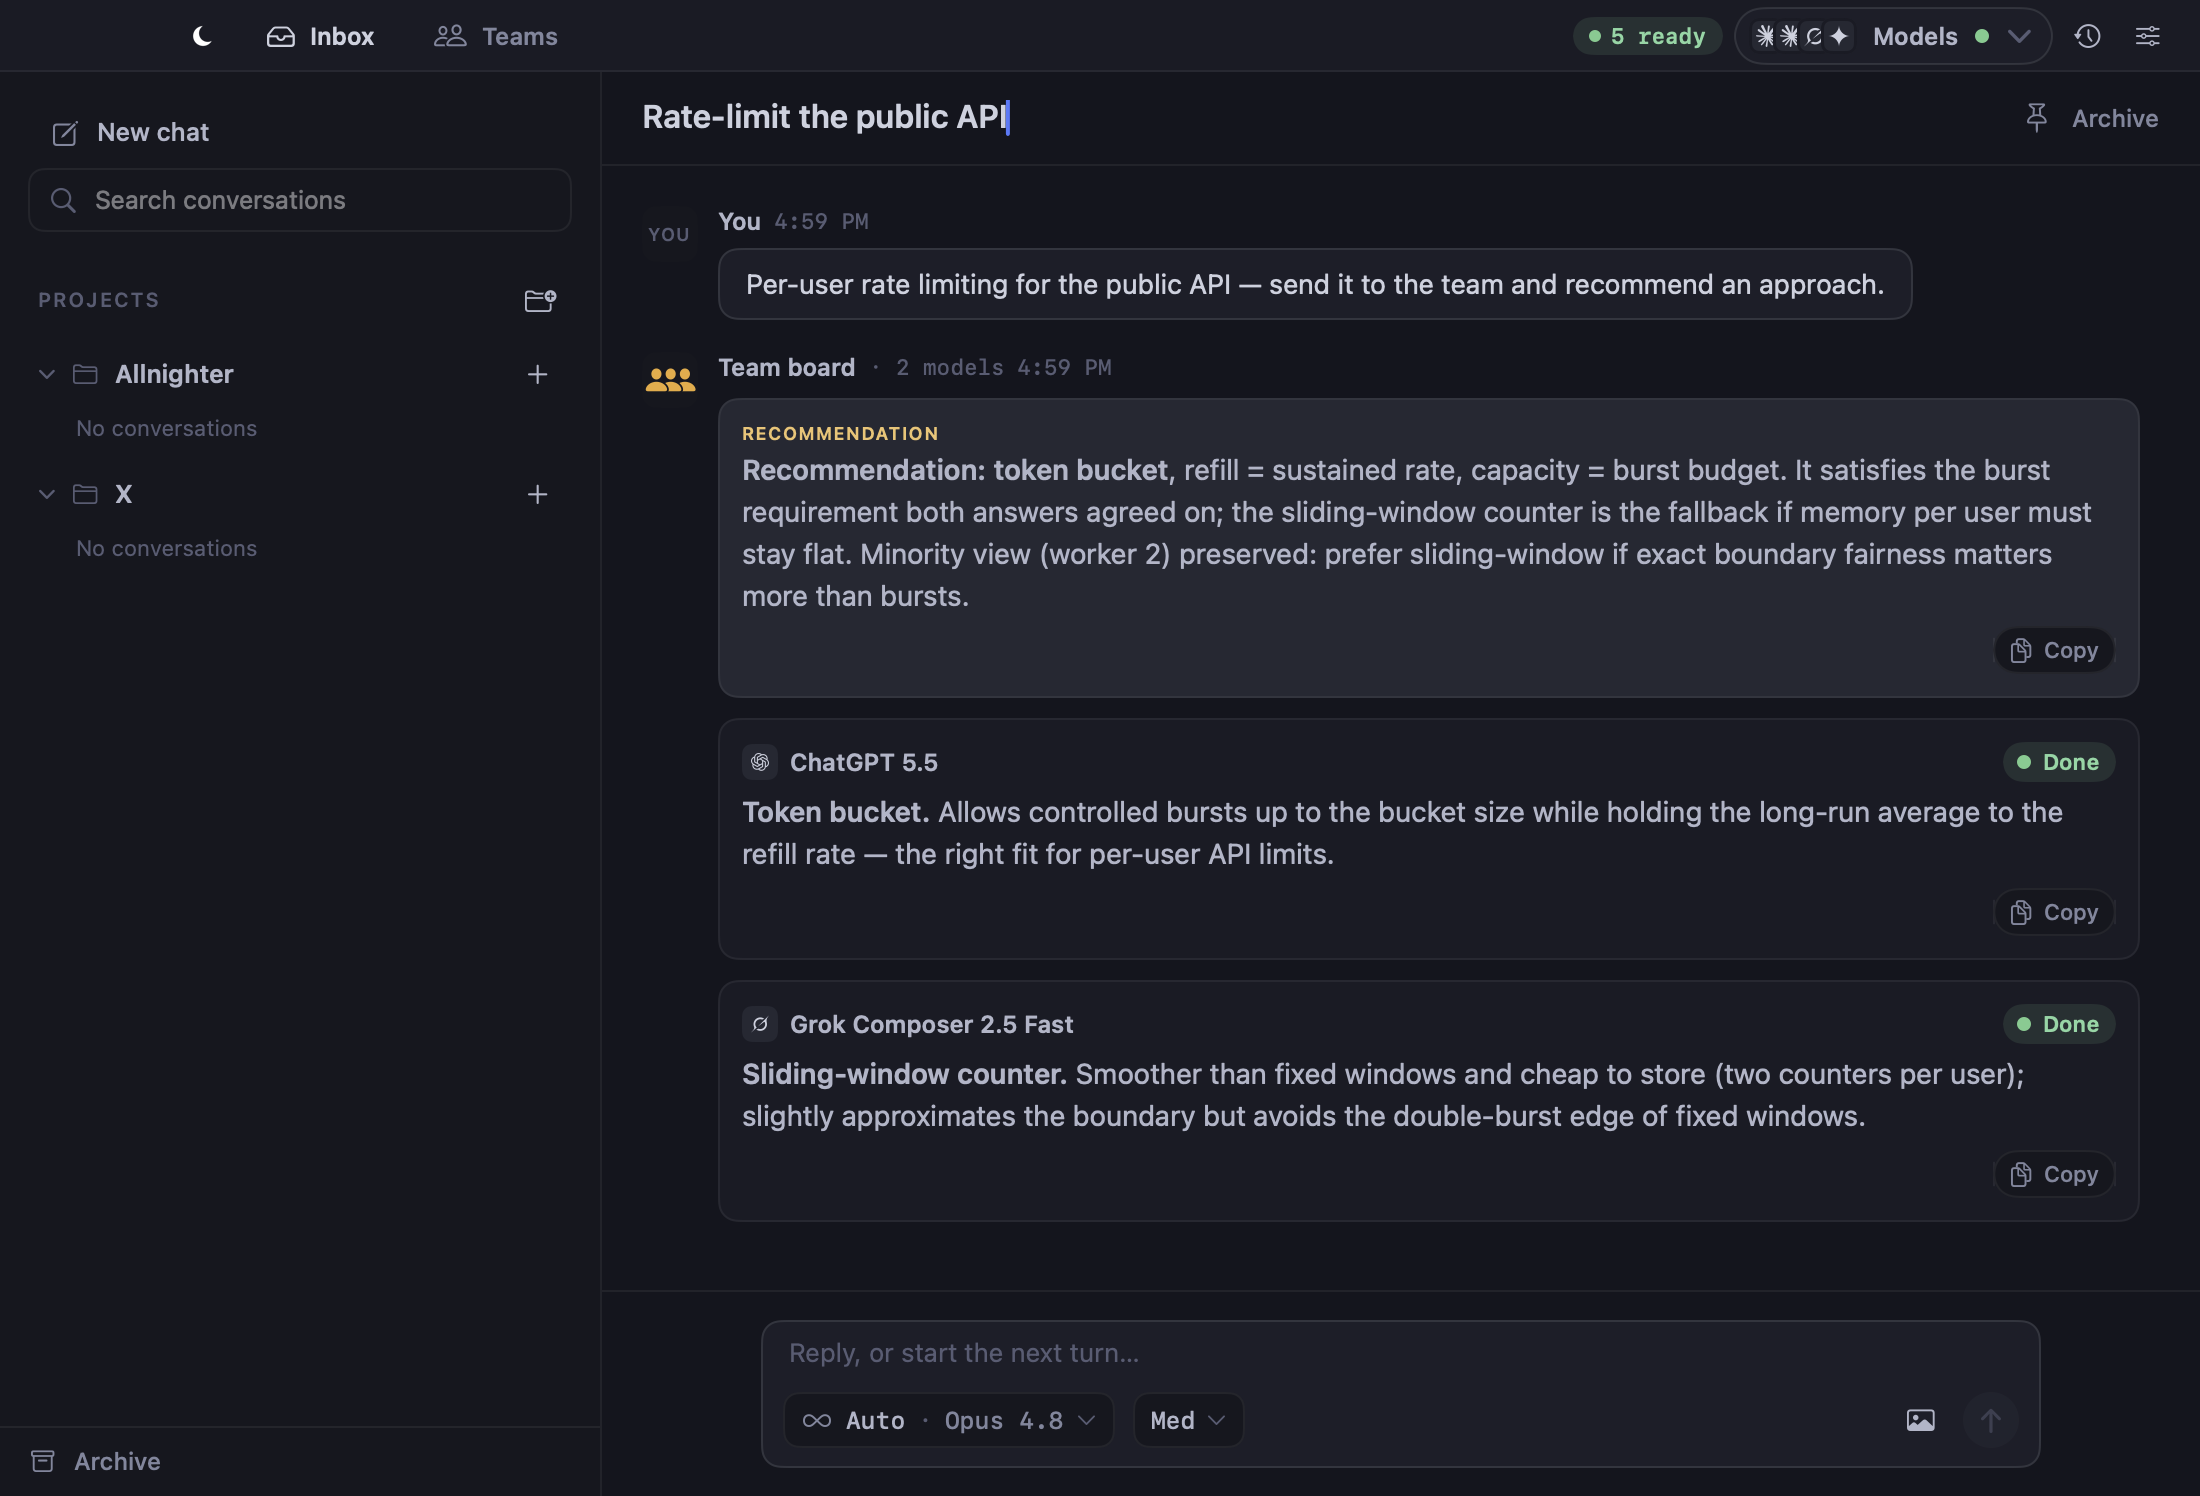
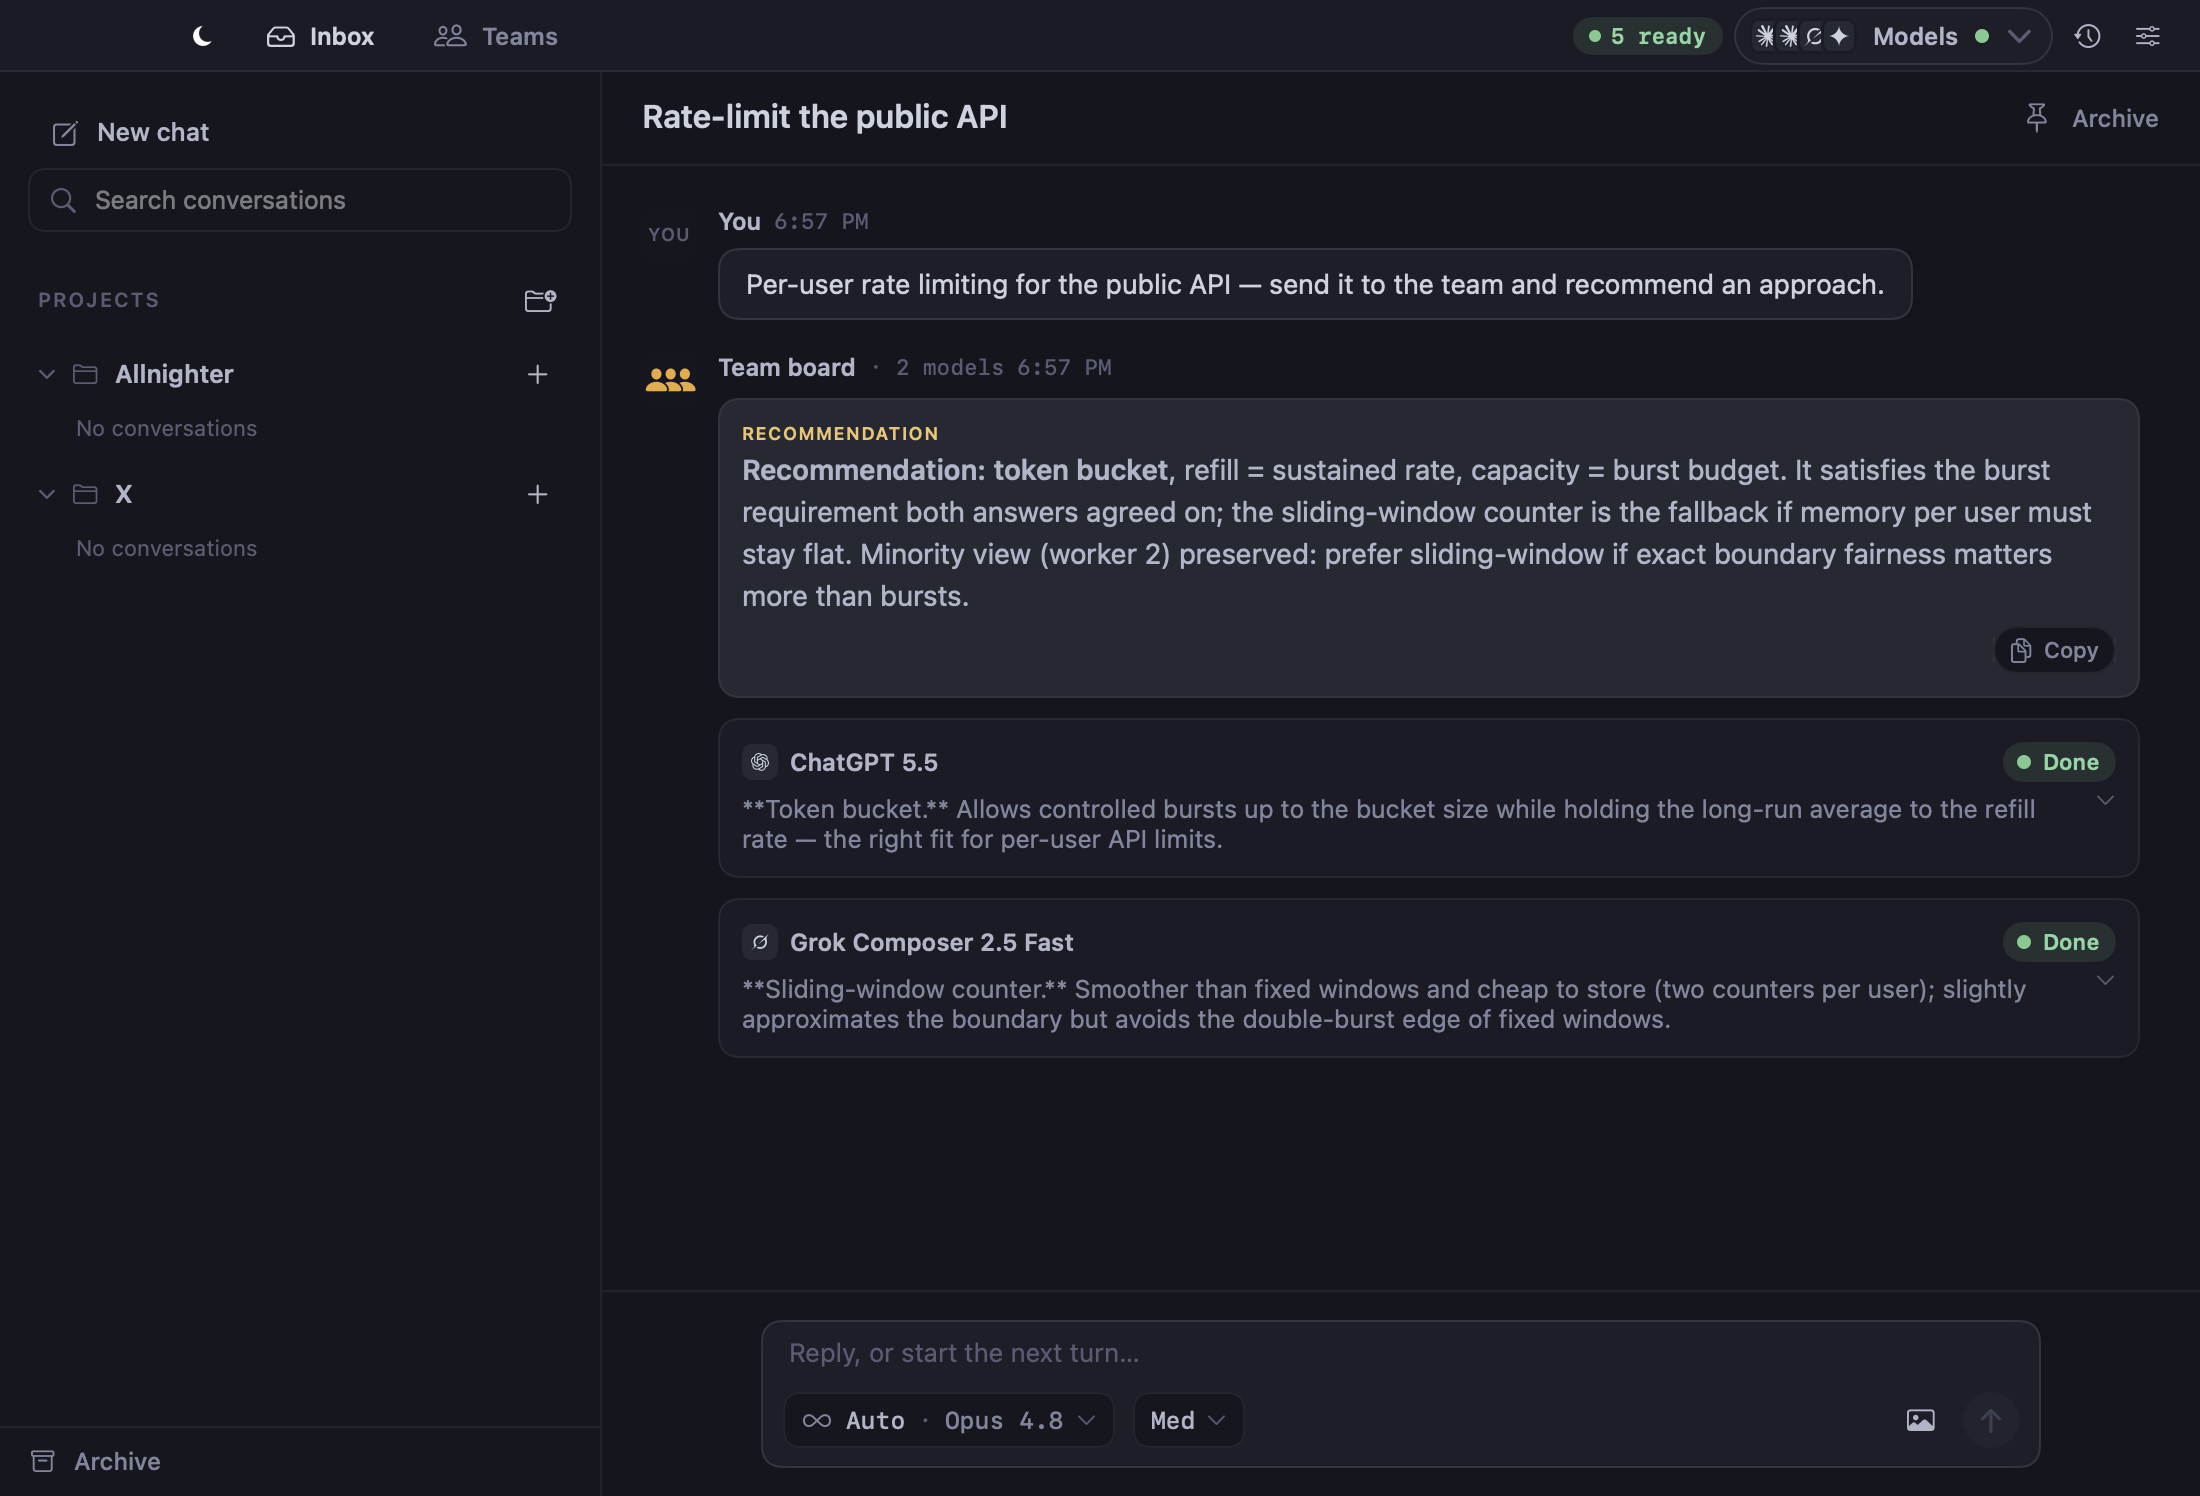
perf(thread): lazy worker answers in the terminal team board
The board rendered every worker's full MarkdownText on first paint (10+ markdown
parse/layout passes for a big run). Now the synthesis renders, and each worker answer is
a collapsed 2-line plain-text preview + chevron; tapping expands it to the full markdown
(+ Copy). First paint of a big terminal team run no longer lays out every answer. Pairs
with the run-decode cache. Re-sealed thread/team-board-copy.

diff --git a/Apps/AllnighterMac/Sources/ThreadView.swift b/Apps/AllnighterMac/Sources/ThreadView.swift
@@ -503,6 +503,9 @@ private struct ThreadBoardRow: View {
     @Environment(AppModel.self) private var appModel
     @Environment(ThreadsViewModel.self) private var threads
     let turn: ThreadTurn
+    /// Worker answers render lazily — only an expanded card parses/lays out its full
+    /// markdown, so first paint of a big terminal team run stays fast (perf doc).
+    @State private var expanded: Set<String> = []
 
     private var run: TeamRun? { turn.runId.flatMap { threads.teamRun(forRunId: $0) } }
     private var synthesis: String? {
@@ -578,6 +581,14 @@ private struct ThreadBoardRow: View {
         }
     }
 
+    /// One-glance plain-text preview for a collapsed answer (no markdown layout cost).
+    private func answerPreview(_ output: String?) -> String {
+        let flat = (output ?? "")
+            .replacingOccurrences(of: "\n", with: " ")
+            .trimmingCharacters(in: .whitespacesAndNewlines)
+        return flat.isEmpty ? "Show answer" : String(flat.prefix(220))
+    }
+
     private func answerCard(_ answer: WorkerAnswer) -> some View {
         let bench = appModel.composeBench.first { $0.id == answer.modelId }
         return VStack(alignment: .leading, spacing: 6) {
@@ -590,9 +601,24 @@ private struct ThreadBoardRow: View {
             }
             switch answer.status {
             case .done:
-                MarkdownText(markdown: answer.output ?? "")
-                    .frame(maxWidth: .infinity, alignment: .leading)
-                MessageCopyFooter(text: answer.output)
+                if expanded.contains(answer.id) {
+                    MarkdownText(markdown: answer.output ?? "")
+                        .frame(maxWidth: .infinity, alignment: .leading)
+                    MessageCopyFooter(text: answer.output)
+                } else {
+                    // Lazy preview — tap to render the full markdown (keeps first paint cheap).
+                    Button { expanded.insert(answer.id) } label: {
+                        HStack(alignment: .top, spacing: 6) {
+                            Text(answerPreview(answer.output))
+                                .font(.system(size: 12.5)).foregroundStyle(ALColor.textMuted)
+                                .lineLimit(2).multilineTextAlignment(.leading)
+                            Spacer(minLength: 8)
+                            Image(systemName: "chevron.down").font(.system(size: 10)).foregroundStyle(ALColor.textFaint)
+                        }
+                        .contentShape(Rectangle())
+                    }
+                    .buttonStyle(.plain)
+                }
             case .failed, .timedOut:
                 Text(answer.errorReason ?? "No answer.")
                     .font(.system(size: 12.5)).foregroundStyle(ALPalette.red400).textSelection(.enabled)

diff --git a/docs/qa/gui/thread/2026-06-20-team-board-copy/watcher.md b/docs/qa/gui/thread/2026-06-20-team-board-copy/watcher.md
@@ -1,12 +1,10 @@
 # thread — layout-watcher verdict
 Fixtures: thread-team-board
 Command: bash scripts/gui_proof.sh thread-team-board
-
 ## VERDICT: PASS
-Every team-board answer (RECOMMENDATION synthesis + each worker answer) now has an
-always-visible "Copy" button at the bottom-right (was missing entirely; the others were
-hover-only). Code-red: agent answers can be copied to the clipboard. No clipping/overlap.
-
+Terminal team board now renders the synthesis (RECOMMENDATION, with Copy) full, and each
+worker answer as a COLLAPSED 2-line preview + chevron — only expanding a card renders its
+full markdown (perf: first paint no longer lays out every answer). Copy button still
+present on expand + synthesis. No clipping/overlap.
 P1 — broken: none
-P2 — advisory: text selection in the markdown renderer is still unreliable — the Copy
-button is the dependable path.
+P2 — advisory: collapsed preview shows raw markdown chars; acceptable for a preview.
